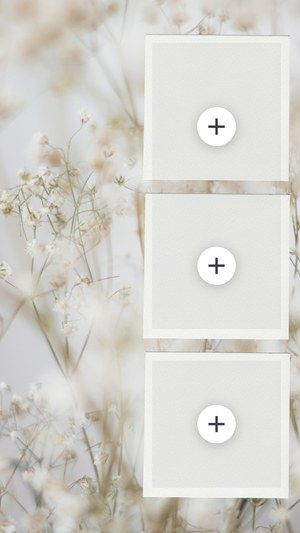
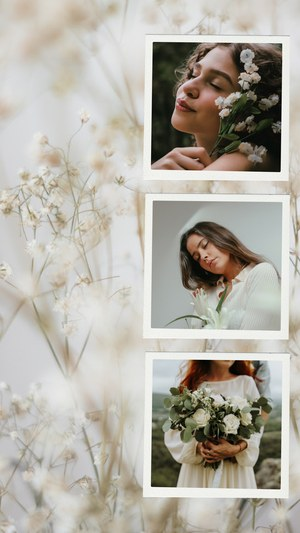
Casetify-style collage flow: stock preview on case, tap to enter builder mode

diff --git a/customizer.html b/customizer.html
@@ -538,7 +538,7 @@
     text:'', textFont:0, textColor:'#FFFFFF', textSize:220, textPos:62, textVertical:false,
     px:0, py:0, scale:1, rot:0,
     addons:{screen:false,lens:false}, promo:null, reserved:false, fitMode:'fill',
-    layout:null, photos:[], slotTarget:null
+    layout:null, photos:[], slotTarget:null, builder:false
   };
   (function(){ var mm = /[?&]model=([^&]+)/.exec(location.search); if (!mm) return;
     var want = decodeURIComponent(mm[1]).replace(/-/g, ' ').toLowerCase();
@@ -753,6 +753,14 @@
     im.src='assets/collage/'+t.img;
     tplImgs[t.id]=im; return im;
   }
+  function tplPrevImage(t){
+    var k='p'+t.id;
+    if(tplImgs[k]) return tplImgs[k];
+    var im=new Image(); im.crossOrigin='anonymous';
+    im.onload=function(){ render(); };
+    im.src='assets/collage/'+(t.prev||t.img);
+    tplImgs[k]=im; return im;
+  }
   function hasArt(){ return !!state.photoImg || (state.layout && state.photos && state.photos.some(Boolean)); }
   function tplMap(){
     var t=curTpl(); if(!t) return null;
@@ -774,7 +782,14 @@
   }
   function drawCollageInto(c2, forPrint){
     var t=curTpl(); if(!t) return;
-    var m=tplMap(), im=tplImage(t);
+    var m=tplMap();
+    if(!forPrint && !state.builder){
+      var pim=tplPrevImage(t);
+      if(pim&&pim.complete&&pim.naturalWidth) c2.drawImage(pim, m.ox, m.oy, 1080*m.sc, 1920*m.sc);
+      else { c2.fillStyle='#F3F2F2'; c2.fillRect(m.B.x,m.B.y,m.B.w,m.B.h); }
+      return;
+    }
+    var im=tplImage(t);
     if(!(im&&im.complete&&im.naturalWidth)) { c2.fillStyle='#F3F2F2'; c2.fillRect(m.B.x,m.B.y,m.B.w,m.B.h); return; }
     c2.drawImage(im, m.ox, m.oy, 1080*m.sc, 1920*m.sc);
     var rects=slotRects();
@@ -958,12 +973,13 @@
     return { x:(evt.clientX-r.left)*DIM.w/r.width, y:(evt.clientY-r.top)*DIM.h/r.height };
   }
   var dragging=false,last=null,panning=false,panLast=null;
-  canvas.addEventListener('click',function(){ if(!state.photoImg && !state.text && !CAL.on) $('fileInput').click(); });
+  canvas.addEventListener('click',function(){ if(!state.photoImg && !state.text && !CAL.on && !state.layout) $('fileInput').click(); });
   var kpPtr=null, kpPtrs={}, pinch=null;
   function ptrCount(){ return Object.keys(kpPtrs).length; }
   function canGesture(){ return state.photoImg && !state.isLibraryDesign; }
   canvas.addEventListener('pointerdown',function(e){
     if(state.layout && !CAL.on){
+      if(!state.builder){ state.builder=true; updateUploadLabel(); updateStage(); render(); return; }
       var p=toCanvas(e), rects=slotRects(), hit=-1;
       for(var i=rects.length-1;i>=0;i--){
         var r=rects[i], cx=r.x+r.w/2, cy=r.y+r.h/2;
@@ -1047,7 +1063,7 @@
     updateBrowseLink();
     if (state.layout){
       var Th=curTpl(), tot=Th?Th.slots.length:0, fh=state.photos.filter(Boolean).length;
-      $('stageHint').textContent = fh>=tot ? 'Collage complete — tap any photo to swap it' : (Th?Th.n+' — tap a + spot to add your photos ('+fh+' of '+tot+' added)':'');
+      $('stageHint').textContent = !state.builder ? (Th?Th.n+' — example shown. Tap the case to use your own photos':'') : (fh>=tot ? 'Collage complete — tap any photo to swap it' : (Th?Th.n+' — tap a + spot to add your photos ('+fh+' of '+tot+' added)':''));
       $('kitNote').style.display='none';
     } else if (!state.photoImg && !state.text){
       $('stageHint').textContent = hasKit() ? 'Your case — upload or drop a photo to begin' : 'Upload or drop a photo to begin';
@@ -1176,8 +1192,8 @@
     if(!lc) return;
     var id=lc.dataset.l||null;
     if(state.layout===id) return;
-    state.layout=id; state.photos=[]; state.slotTarget=null;
-    if(id){ var t=curTpl(); if(t) tplImage(t); }
+    state.layout=id; state.photos=[]; state.slotTarget=null; state.builder=false;
+    if(id){ var t=curTpl(); if(t){ tplPrevImage(t); tplImage(t); } }
     state.photoImg=null; state.photoUrl=null; state.isLibraryDesign=false; state.reserved=false;
     state.px=0;state.py=0;state.scale=1;state.rot=0;
     renderLayoutChips(); updateUploadLabel(); updateStage(); updateSummary(); render();
@@ -1186,15 +1202,19 @@
     var b=$('uploadBtn'); if(!b) return;
     if(state.layout){
       var t=curTpl(), total=t?t.slots.length:0, filled=state.photos.filter(Boolean).length;
+      if(!state.builder){ b.textContent='Make it yours \u2014 add your '+total+' photos'; return; }
       b.textContent= filled>=total ? 'Replace a photo (tap it first)' : 'Add photo '+(filled+1)+' of '+total;
     } else b.textContent = state.photoImg ? 'Upload a different photo' : 'Upload a photo';
   }
   renderLayoutChips();
-  $('uploadBtn').addEventListener('click',function(){ $('fileInput').click(); });
+  $('uploadBtn').addEventListener('click',function(){
+    if(state.layout && !state.builder){ state.builder=true; updateUploadLabel(); updateStage(); render(); }
+    $('fileInput').click();
+  });
   $('fileInput').addEventListener('change',function(e){ loadPhoto(e.target.files[0]); e.target.value=''; });
   $('clearBtn').addEventListener('click',function(){
     state.photoImg=null; state.photoUrl=null; state.filter='none';
-    state.photos=[]; state.slotTarget=null;
+    state.photos=[]; state.slotTarget=null; state.builder=false;
     state.px=0;state.py=0;state.scale=1;state.rot=0;
     updateUploadLabel(); updateDpi(); updateStage(); updateSummary(); render();
   });
